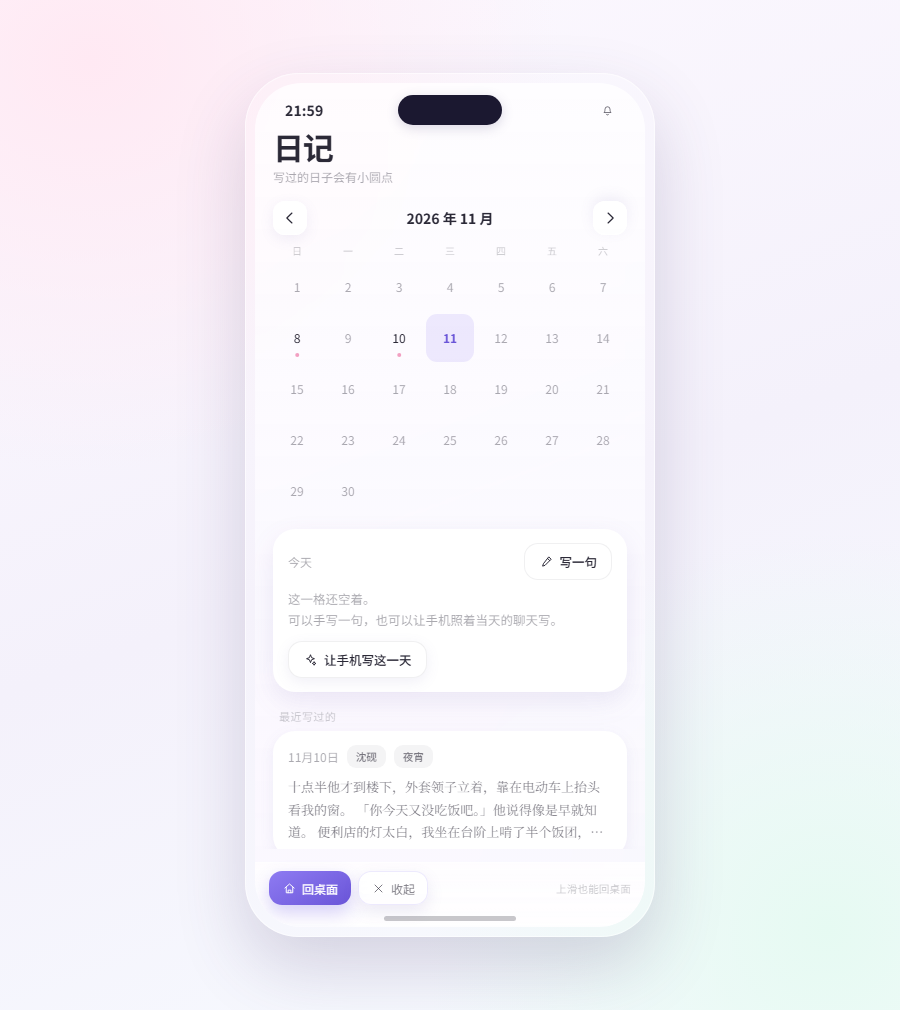
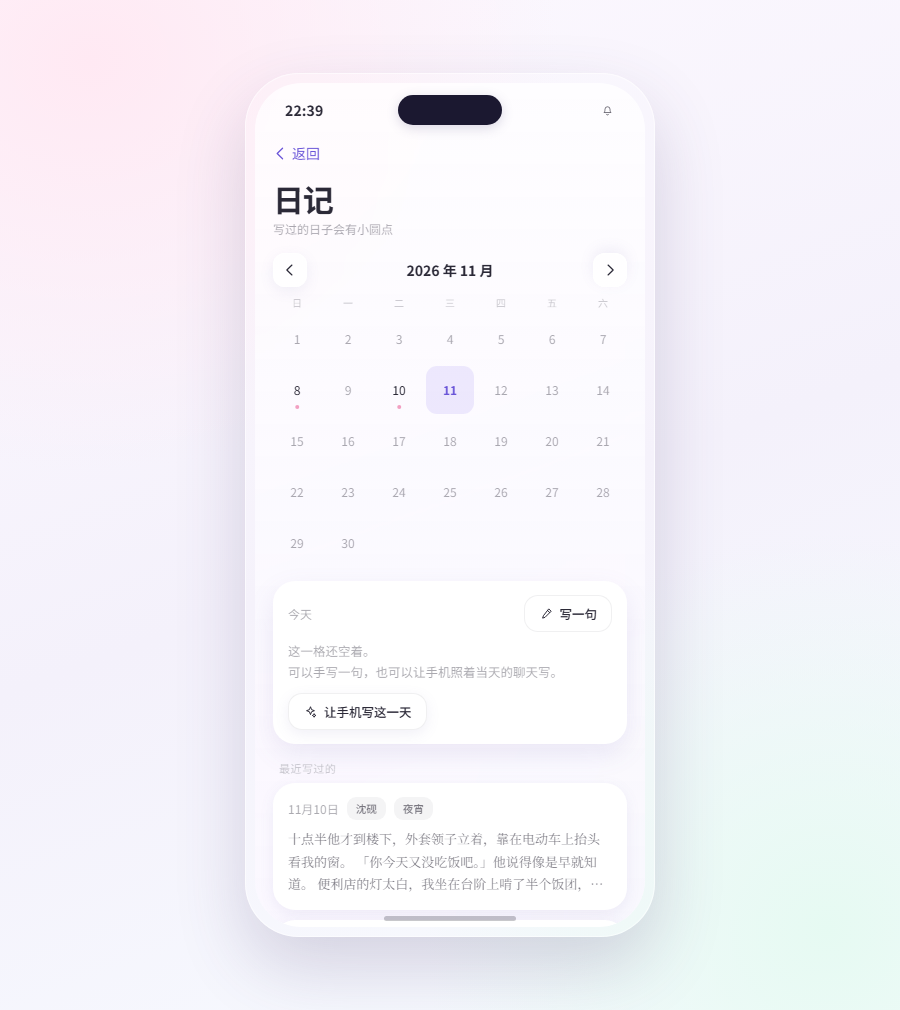
feat: 统一返回按钮，去掉底部操作条
- 每个页面左上角统一一条「‹ 返回」，回上一页，栈底退回桌面
- 外壳检测页面没画返回键就自动补一条，diary/wallet/收藏/会员等不再回不去
- 移除底部「回桌面 / 后退 / 收起」操作条与会话页的「桌面」胶囊，正文让位样式同步调整
- 快捷回复召唤改为 /meme 命令 + summom-phone.json 导入说明

diff --git a/preview.html b/preview.html
@@ -1485,22 +1485,6 @@ body {
 }
 
 /* 回桌面：底部操作条 */
-.mp-actions {
-  position: absolute;
-  left: 0;
-  right: 0;
-  bottom: 0;
-  display: flex;
-  align-items: center;
-  gap: 7px;
-  padding: 9px 14px 22px;
-  background: linear-gradient(180deg, rgba(255, 255, 255, .74), rgba(255, 255, 255, .92));
-  backdrop-filter: blur(18px) saturate(150%);
-  -webkit-backdrop-filter: blur(18px) saturate(150%);
-  box-shadow: inset 0 1px 0 rgba(255, 255, 255, .62);
-  z-index: 31;
-}
-
 .mp-action-btn {
   display: inline-flex;
   align-items: center;
@@ -1531,30 +1515,6 @@ body {
   color: #fff;
   background: linear-gradient(150deg, var(--lav), var(--lav-deep));
   box-shadow: 0 8px 18px rgba(120, 102, 230, .30);
-}
-
-.mp-actions-hint {
-  margin-left: auto;
-  font-size: 10.5px;
-  color: var(--text-4);
-  letter-spacing: .02em;
-}
-
-.mp-root[data-mp-theme="night"] .mp-actions {
-  background: linear-gradient(180deg, rgba(24, 20, 38, .42), rgba(18, 14, 30, .72));
-  box-shadow: inset 0 1px 0 rgba(255, 255, 255, .10);
-}
-
-.mp-root[data-mp-theme="night"] .mp-action-btn {
-  color: #ece9f7;
-  background: rgba(255, 255, 255, .09);
-  box-shadow: inset 0 0 0 1px rgba(255, 255, 255, .14);
-}
-
-.mp-root[data-mp-theme="night"] .mp-action-btn.primary {
-  color: #fff;
-  background: linear-gradient(150deg, #8b73e8, #6c54d2);
-  box-shadow: 0 8px 18px rgba(0, 0, 0, .38);
 }
 
 /* 底部小横条：加宽点击区，也可上滑 */
@@ -1605,43 +1565,9 @@ body {
 }
 
 /* 会话类页面：浮在输入框上方的小胶囊，不挡消息 */
-.mp-float-home {
-  position: absolute;
-  right: 14px;
-  bottom: 108px;
-  z-index: 32;
-  display: inline-flex;
-  align-items: center;
-  gap: 5px;
-  height: 30px;
-  padding: 0 11px;
-  border: 0;
-  border-radius: 11px;
-  font: inherit;
-  font-size: 11.5px;
-  color: var(--text-2);
-  background: rgba(255, 255, 255, .74);
-  backdrop-filter: blur(14px) saturate(150%);
-  -webkit-backdrop-filter: blur(14px) saturate(150%);
-  box-shadow: inset 0 0 0 1px rgba(142, 123, 242, .18), 0 8px 18px rgba(120, 108, 180, .16);
-  cursor: pointer;
-}
-
-.mp-float-home .mp-i {
-  width: 14px;
-  height: 14px;
-  color: var(--lav-deep);
-}
-
-.mp-root[data-mp-theme="night"] .mp-float-home {
-  color: #ece9f7;
-  background: rgba(255, 255, 255, .10);
-  box-shadow: inset 0 0 0 1px rgba(255, 255, 255, .16), 0 8px 18px rgba(0, 0, 0, .34);
-}
-
 /* 操作条浮在底部，正文让出它的高度，最后一行不会被压住 */
 .mp-page .mp-page-body {
-  margin-bottom: 78px;
+  padding-bottom: 30px;
 }
 
 
@@ -2908,31 +2834,17 @@ function createShell(options) {
     return `${Number(month)}月${Number(day)}日`;
   }
 
-  function floatHomeHtml() {
-    return `
-      <button class="mp-float-home" data-act="home" type="button">${ico('home')}<span>桌面</span></button>`;
-  }
-
-  function actionsHtml() {
-    const depth = shell.stack.length;
-    return `
-      <div class="mp-actions">
-        <button class="mp-action-btn primary" data-act="home" type="button">${ico('home')}<span>回桌面</span></button>
-        ${depth > 1 ? `<button class="mp-action-btn" data-act="back" type="button">${ico('back')}<span>后退</span></button>` : ''}
-        <button class="mp-action-btn" data-act="phone-close" type="button">${ico('close')}<span>收起</span></button>
-        <span class="mp-actions-hint">上滑也能回桌面</span>
-      </div>`;
-  }
-
   function pageHtml() {
     const entry = shell.stack[shell.stack.length - 1];
     const app = apps[entry.view];
     if (!app) return desktopHtml();
-    const withThread = entry.view === 'thread' || entry.view === 'contact' || entry.view === 'extra-detail';
+    const body = app.render(ctx, entry.params || {});
+    // 页面自己没画返回键就补一条：所有界面都得能回去
+    const hasBack = String(body).includes('data-act="back"');
     return `
       <div class="mp-page" data-view="${esc(entry.view)}">
-        ${app.render(ctx, entry.params || {})}
-        ${withThread ? floatHomeHtml() : actionsHtml()}
+        ${hasBack ? '' : `<div class="mp-nav"><button class="mp-back" data-act="back" type="button">${ico('back')}<span>返回</span></button><span style="flex:1"></span></div>`}
+        ${body}
       </div>`;
   }
 

diff --git a/meme/meme.css b/meme/meme.css
@@ -1468,22 +1468,6 @@
 }
 
 /* 回桌面：底部操作条 */
-.mp-actions {
-  position: absolute;
-  left: 0;
-  right: 0;
-  bottom: 0;
-  display: flex;
-  align-items: center;
-  gap: 7px;
-  padding: 9px 14px 22px;
-  background: linear-gradient(180deg, rgba(255, 255, 255, .74), rgba(255, 255, 255, .92));
-  backdrop-filter: blur(18px) saturate(150%);
-  -webkit-backdrop-filter: blur(18px) saturate(150%);
-  box-shadow: inset 0 1px 0 rgba(255, 255, 255, .62);
-  z-index: 31;
-}
-
 .mp-action-btn {
   display: inline-flex;
   align-items: center;
@@ -1514,30 +1498,6 @@
   color: #fff;
   background: linear-gradient(150deg, var(--lav), var(--lav-deep));
   box-shadow: 0 8px 18px rgba(120, 102, 230, .30);
-}
-
-.mp-actions-hint {
-  margin-left: auto;
-  font-size: 10.5px;
-  color: var(--text-4);
-  letter-spacing: .02em;
-}
-
-.mp-root[data-mp-theme="night"] .mp-actions {
-  background: linear-gradient(180deg, rgba(24, 20, 38, .42), rgba(18, 14, 30, .72));
-  box-shadow: inset 0 1px 0 rgba(255, 255, 255, .10);
-}
-
-.mp-root[data-mp-theme="night"] .mp-action-btn {
-  color: #ece9f7;
-  background: rgba(255, 255, 255, .09);
-  box-shadow: inset 0 0 0 1px rgba(255, 255, 255, .14);
-}
-
-.mp-root[data-mp-theme="night"] .mp-action-btn.primary {
-  color: #fff;
-  background: linear-gradient(150deg, #8b73e8, #6c54d2);
-  box-shadow: 0 8px 18px rgba(0, 0, 0, .38);
 }
 
 /* 底部小横条：加宽点击区，也可上滑 */
@@ -1588,43 +1548,9 @@
 }
 
 /* 会话类页面：浮在输入框上方的小胶囊，不挡消息 */
-.mp-float-home {
-  position: absolute;
-  right: 14px;
-  bottom: 108px;
-  z-index: 32;
-  display: inline-flex;
-  align-items: center;
-  gap: 5px;
-  height: 30px;
-  padding: 0 11px;
-  border: 0;
-  border-radius: 11px;
-  font: inherit;
-  font-size: 11.5px;
-  color: var(--text-2);
-  background: rgba(255, 255, 255, .74);
-  backdrop-filter: blur(14px) saturate(150%);
-  -webkit-backdrop-filter: blur(14px) saturate(150%);
-  box-shadow: inset 0 0 0 1px rgba(142, 123, 242, .18), 0 8px 18px rgba(120, 108, 180, .16);
-  cursor: pointer;
-}
-
-.mp-float-home .mp-i {
-  width: 14px;
-  height: 14px;
-  color: var(--lav-deep);
-}
-
-.mp-root[data-mp-theme="night"] .mp-float-home {
-  color: #ece9f7;
-  background: rgba(255, 255, 255, .10);
-  box-shadow: inset 0 0 0 1px rgba(255, 255, 255, .16), 0 8px 18px rgba(0, 0, 0, .34);
-}
-
 /* 操作条浮在底部，正文让出它的高度，最后一行不会被压住 */
 .mp-page .mp-page-body {
-  margin-bottom: 78px;
+  padding-bottom: 30px;
 }
 
 

diff --git a/meme/shell.js b/meme/shell.js
@@ -151,31 +151,17 @@ export function createShell(options) {
     return `${Number(month)}月${Number(day)}日`;
   }
 
-  function floatHomeHtml() {
-    return `
-      <button class="mp-float-home" data-act="home" type="button">${ico('home')}<span>桌面</span></button>`;
-  }
-
-  function actionsHtml() {
-    const depth = shell.stack.length;
-    return `
-      <div class="mp-actions">
-        <button class="mp-action-btn primary" data-act="home" type="button">${ico('home')}<span>回桌面</span></button>
-        ${depth > 1 ? `<button class="mp-action-btn" data-act="back" type="button">${ico('back')}<span>后退</span></button>` : ''}
-        <button class="mp-action-btn" data-act="phone-close" type="button">${ico('close')}<span>收起</span></button>
-        <span class="mp-actions-hint">上滑也能回桌面</span>
-      </div>`;
-  }
-
   function pageHtml() {
     const entry = shell.stack[shell.stack.length - 1];
     const app = apps[entry.view];
     if (!app) return desktopHtml();
-    const withThread = entry.view === 'thread' || entry.view === 'contact' || entry.view === 'extra-detail';
+    const body = app.render(ctx, entry.params || {});
+    // 页面自己没画返回键就补一条：所有界面都得能回去
+    const hasBack = String(body).includes('data-act="back"');
     return `
       <div class="mp-page" data-view="${esc(entry.view)}">
-        ${app.render(ctx, entry.params || {})}
-        ${withThread ? floatHomeHtml() : actionsHtml()}
+        ${hasBack ? '' : `<div class="mp-nav"><button class="mp-back" data-act="back" type="button">${ico('back')}<span>返回</span></button><span style="flex:1"></span></div>`}
+        ${body}
       </div>`;
   }
 

diff --git a/README.md b/README.md
@@ -36,7 +36,7 @@ meme-phone/
 ## 背景与返回
 
 - 背景三选一：透明（默认，不铺底色，直接透出酒馆自己的界面）/ 晨光粉彩 / 夜色。在「设置 → 外观与主题 → 背景」里换。
-- 回桌面：每个 App 页面底部有一条操作条（回桌面 · 后退 · 收起），会话页则在输入框上方浮一枚「桌面」胶囊；任何页面从下半屏快速上滑也能回桌面，底部小横条同样可点。
+- 返回：每个页面左上角都有「‹ 返回」，回上一页；页面栈到底了就往桌面退。没画返回键的界面由外壳统一补一条，不会再出现「进去了回不去」。
 
 ## 看界面
 
